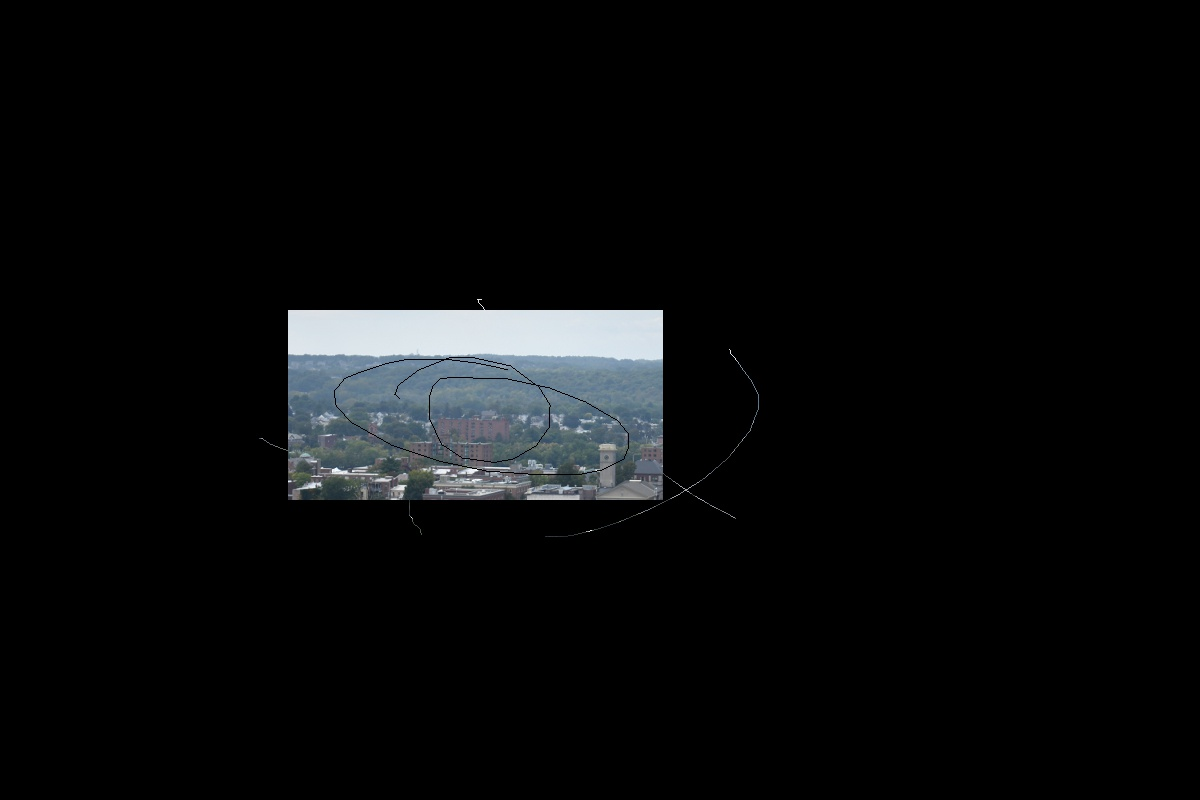
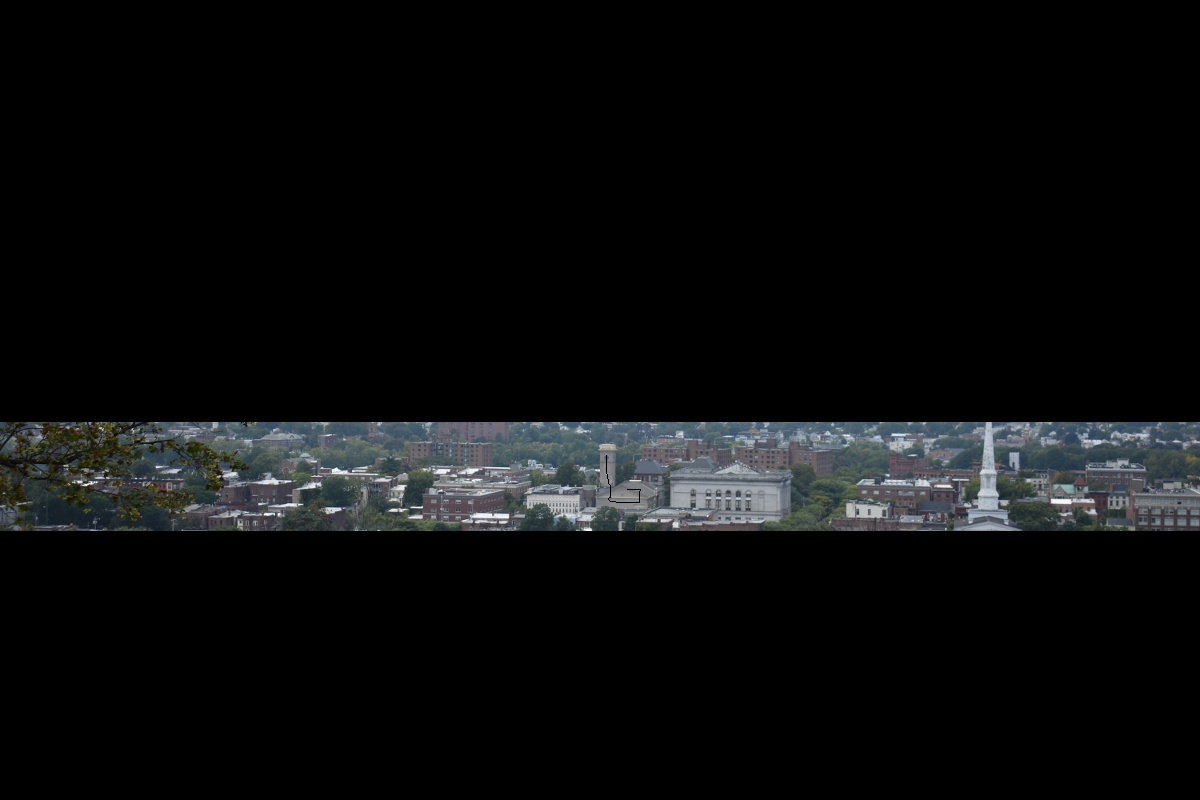
Broken cuts

Changed region(s): [[0.0, 0.375, 1.0, 0.6875]]

diff --git a/hw2/problem2.py b/hw2/problem2.py
@@ -22,6 +22,9 @@ import random
 import sys
 import math
 
+sigma = 2
+lamb = 1
+
 '''
 taken from https://stackoverflow.com/questions/32328179/opencv-3-0-python-lineiterator
 '''
@@ -120,6 +123,8 @@ class SegmentationWidget(Widget):
 
         self.imgWidth = img.shape[1]
         self.imgHeight = img.shape[0]
+        self.flatShape = (self.imgHeight,self.imgWidth,1)
+        self.flatestShape = (self.imgHeight,self.imgWidth)
 
         #attach the image to a texture
         self.texture = Texture.create(size=(self.imgWidth , self.imgHeight), colorfmt="bgr")
@@ -129,17 +134,22 @@ class SegmentationWidget(Widget):
         
         self.imgOut = img
         self.img = img
+        self.intensity = np.average(img,axis=2).astype(np.uint8)
 
         img = np.flip(img,axis=0)
         cv2.imwrite('out2.jpg', img)
 
         #create the graph and do initialization
         self.g = maxflow.Graph[int]()
-        self.nodeids = self.g.add_grid_nodes(img.shape)
-        self.g.add_grid_edges(self.nodeids, 0)
+        self.nodes = self.g.add_grid_nodes(self.flatShape)
+        self.structure = np.array([[0, 1, 0],[1, 0, 1],[0, 1, 0]])
 
-        self.f = np.zeros(img.shape)
-        self.b = np.full(img.shape,np.inf,dtype=np.float)
+
+        self.f = np.zeros(self.flatShape)
+        self.b = np.full(self.flatShape,np.inf,dtype=np.float)
+
+        self.wf = np.zeros(self.flatShape)
+        self.wb = np.zeros(self.flatShape)
 
         with self.canvas.before:
             #attach the texture to the app
@@ -195,15 +205,18 @@ class SegmentationWidget(Widget):
             self.firstTouch = False
         else:
             points = touch.ud['line'].points
-            for i in range(1,len(points)//2):
-                x1 = self.xResize(points[2*(i-1)])
-                y1 = self.yResize(points[2*(i-1)+1])
-                x2 = self.xResize(points[2*i+0])
-                y2 = self.yResize(points[2*i+1])
+            for i in range(1,len(points) // 2):
+                x1 = self.xResize(points[2 * (i - 1)])
+                y1 = self.yResize(points[2 * (i - 1) + 1])
+                x2 = self.xResize(points[2 * i + 0])
+                y2 = self.yResize(points[2 * i + 1])
 
                 buffer = createLineIterator(np.array([x1,y1]).astype(np.int),np.array([x2,y2]).astype(np.int),self.imgOut)
                 for data in buffer:
 
+                    '''
+                    The default draw is Keep. Press s to change it
+                    '''
                     if self.isKeep:
                         self.f[data[1]][data[0]] = np.inf
                         self.b[data[1]][data[0]] = 0.
@@ -212,19 +225,49 @@ class SegmentationWidget(Widget):
                         self.f[data[1]][data[0]] = 0.
                         self.b[data[1]][data[0]] = np.inf
 
+        
+        #do all the graph stuff
+        segments = self.cut()
+
         #remove the lines and update the graph based on this line
         self.canvas.clear()
 
         #create the new image and display it
-        displayMask = self.f
-        displayMask[displayMask == np.inf] = 1.
-        self.imgOut = (self.img * displayMask).astype(np.uint8)
+        self.imgOut = (self.img * segments.astype(int)).astype(np.uint8)
 
         self.texture.blit_buffer(self.imgOut.tostring(), bufferfmt="ubyte", colorfmt="bgr")
 
         self.imgOut = np.flip(self.imgOut,axis=0)
         cv2.imwrite('out2.jpg', self.imgOut)
         self.imgOut = np.flip(self.imgOut,axis=0)
+
+    '''
+    All the graph work goes here
+    '''
+    def cut(self):
+        fHist = cv2.calcHist([self.intensity],[0],self.f.astype(np.uint8),[256],[0,256])
+        bHist = cv2.calcHist([self.intensity],[0],self.b.astype(np.uint8),[256],[0,256])
+
+        #removed logs for sanity
+        self.wf = -lamb * bHist[self.intensity]
+        self.wb = -lamb * fHist[self.intensity]
+
+        diff = np.abs(np.gradient(self.intensity))
+        diff = np.average(diff, axis = 0)
+        self.w = np.exp(-np.square(diff) / (2 * np.square(sigma)))
+
+        #add the weights to the grid
+        self.g.add_grid_edges(self.nodes, weights=1, structure=self.structure,symmetric=False)
+
+        # Add the terminal edges. The [2] are the capacities
+        # of the edges from the source node. The [3]
+        # are the capacities of the edges to the sink node.
+        self.g.add_grid_tedges(self.nodes, self.b, self.f)
+
+        self.g.maxflow()
+
+        return self.g.get_grid_segments(self.nodes)
+
 
     def _on_keyboard_down(self, keyboard, keycode, text, modifiers):
         if keycode[1] == 's':
